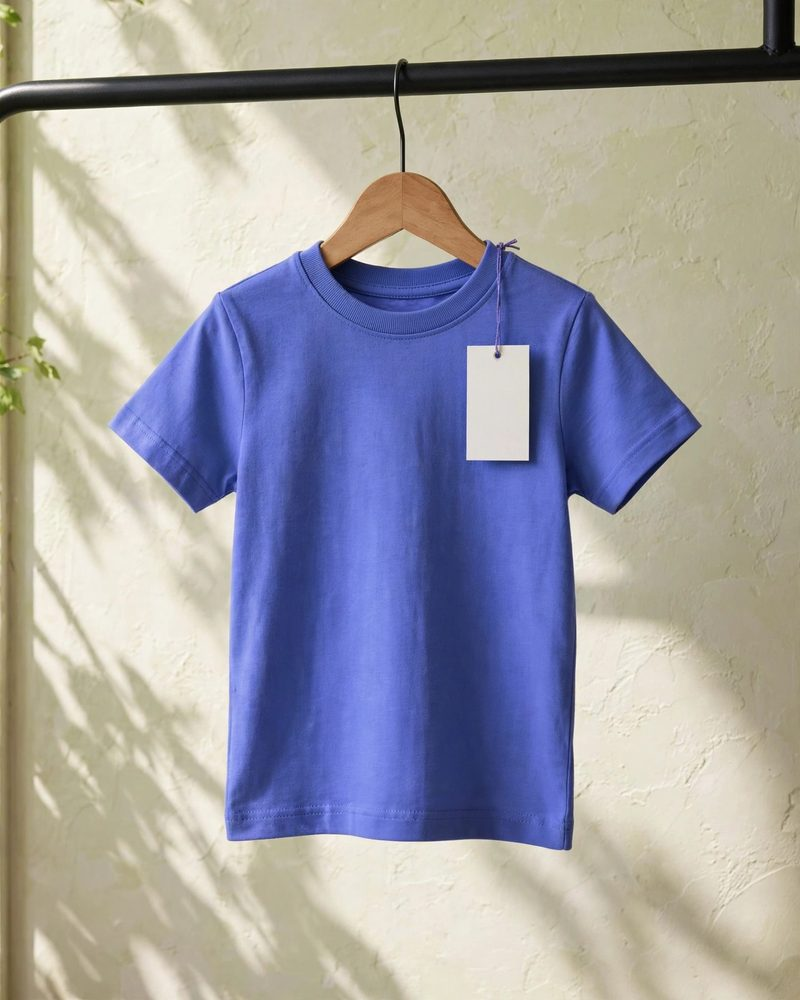
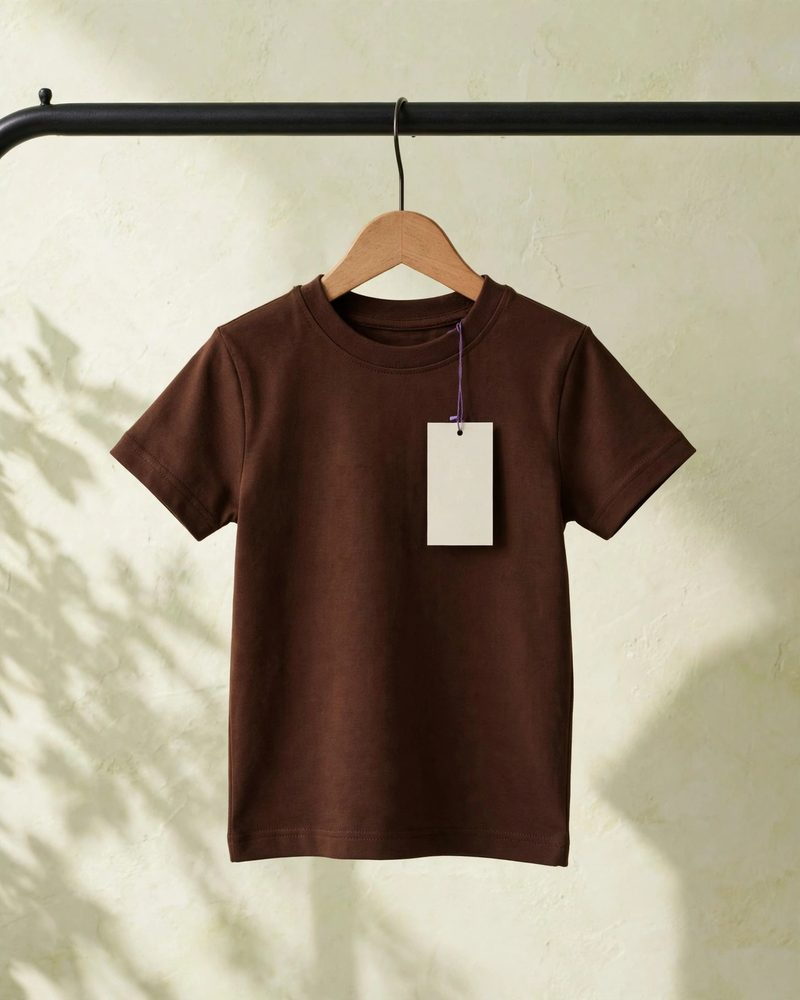
Each dye run's garments show its own colour: the medium-shade run (lot 460f93ca) is coffee brown and the light-shade run has its own pale blue photos, generated with Muse Image; the trace page, passports and tiles pick the photo and its tag position by the run's shade

diff --git a/web/src/Home.tsx b/web/src/Home.tsx
@@ -4,7 +4,7 @@ import { useEffect, useRef, useState } from 'react'
 import QRCode from 'qrcode'
 import { api, type CatalogBatch } from './api'
 import { dayHm, wall } from './evidence'
-import { Garment, SHADE, photo } from './Garments'
+import { Garment, SHADE, photo, photoKind } from './Garments'
 import TAGS from './tags.json'
 
 export function ScanLabel() {
@@ -14,7 +14,7 @@ export function ScanLabel() {
   const [qr, setQr] = useState('')
   useEffect(() => { api.catalog().then(setLog).catch(() => setLog([])) }, [])
   // fetch every tagged garment photo up front, so picking a garment shows it at once
-  useEffect(() => { new Set(log.flatMap((b) => b.products.map((p) => p.kind))).forEach((k) => { new Image().src = photo(k, true) }) }, [log])
+  useEffect(() => { new Set(log.flatMap((b) => b.products.map((p) => photo(p.kind, true, b.batch.shade)))).forEach((src) => { new Image().src = src }) }, [log])
   const batch = log.find((b) => b.key === key) ?? log[0]
   const product = batch?.products.find((p) => p.gtin === gtin) ?? batch?.products[0]
   const url = product ? `${location.origin}${product.link}` : ''
@@ -44,7 +44,7 @@ export function ScanLabel() {
           <div className="product-row">
             {batch.products.map((p) => (
               <button key={p.gtin} aria-pressed={p.gtin === product.gtin} onClick={() => setGtin(p.gtin)}>
-                <Garment kind={p.kind} /><span>{p.name}</span>
+                <Garment kind={p.kind} shade={batch.batch.shade} /><span>{p.name}</span>
               </button>
             ))}
           </div>
@@ -52,7 +52,7 @@ export function ScanLabel() {
         <div className="scan-tag">
           <span className="scan-step">3 · SCAN ITS TAG</span>
           <div className="tag-stage">
-            <Garment kind={product.kind} tag qr={qr} className="tag-garment" />
+            <Garment kind={product.kind} shade={batch.batch.shade} tag qr={qr} className="tag-garment" />
             <span className="tag-pointer">the QR lives here,<br />on the hang tag<svg viewBox="0 0 80 50" aria-hidden="true"><path d="M74 6Q24 2 10 44M10 44L22 37M10 44L5 30" /></svg></span>
           </div>
           <div className="tag-qr">
@@ -105,7 +105,7 @@ export function PhoneStory() {
   }, [auto, inView])
   useEffect(() => { if (step === 2) setSeen(true) }, [step])
   if (!batch || !product) return null
-  const box = (TAGS as Record<string, { x: number; y: number; w: number; h: number }>)[product.kind]
+  const box = (TAGS as Record<string, { x: number; y: number; w: number; h: number }>)[photoKind(product.kind, batch.batch.shade)]
   const go = (i: number) => { setAuto(false); setStep(i) }
   // where the QR printed on the tag sits on the phone's screen, in % of it: the camera zooms in around it and centres it
   // (the print starts 24% down the card and is as tall as it is wide: 72% of the card's width, the photo being 4:5)
@@ -127,10 +127,10 @@ export function PhoneStory() {
       <div className="ps-phone" aria-hidden={step !== 2}>
         <div className="phone">
           <div className="phone-screen" data-step={step}>
-            <div className="ps-screen ps-tag"><Garment kind={product.kind} tag qr={qr} /></div>
+            <div className="ps-screen ps-tag"><Garment kind={product.kind} shade={batch.batch.shade} tag qr={qr} /></div>
             <div className="ps-screen ps-camera">
               {/* the camera framed on the tag: the same photo, close in on it */}
-              <div className="ps-zoom" style={{ transformOrigin: `${ox}% ${oy}%`, transform: step === 1 ? `translate(${50 - ox}%, ${50 - oy}%) scale(3.2)` : 'scale(1.4)' }}><Garment kind={product.kind} tag qr={qr} /></div>
+              <div className="ps-zoom" style={{ transformOrigin: `${ox}% ${oy}%`, transform: step === 1 ? `translate(${50 - ox}%, ${50 - oy}%) scale(3.2)` : 'scale(1.4)' }}><Garment kind={product.kind} shade={batch.batch.shade} tag qr={qr} /></div>
               <svg className="ps-finder" viewBox="0 0 100 100"><path d="M4 26V8Q4 4 8 4H26M74 4H92Q96 4 96 8V26M96 74V92Q96 96 92 96H74M26 96H8Q4 96 4 92V74" /></svg><span className="ps-pill">Tellwater batch passport ↗</span>
             </div>
             <div className="ps-screen ps-passport">

diff --git a/web/src/Garments.tsx b/web/src/Garments.tsx
@@ -4,8 +4,8 @@ import { useState } from 'react'
 import TAGS from './tags.json'
 
 export const SHADE: Record<string, { fill: string; detail: string; name: string }> = {
-  light: { fill: '#dfe3fb', detail: '#9aa2d8', name: 'Light' },
-  medium: { fill: '#6c79dc', detail: '#c9cefa', name: 'Medium' },
+  light: { fill: '#c9d3ef', detail: '#9aaacf', name: 'Light' },
+  medium: { fill: '#57372b', detail: '#af8971', name: 'Medium' },
   dark: { fill: '#2b2f66', detail: '#7d84c8', name: 'Dark' },
 }
 
@@ -13,12 +13,13 @@ const NAME: Record<string, string> = {
   tee: 'crew-neck T-shirt', longsleeve: 'long-sleeve T-shirt', 'kids-tee': "kids' T-shirt", polo: "men's polo shirt",
   'polo-w': "women's polo shirt", hoodie: 'hoodie', sweatshirt: 'sweatshirt', joggers: 'joggers',
 }
-export const photo = (kind: string, tag = false) => `${import.meta.env.BASE_URL}garments/${kind}${tag ? '-tag' : ''}.jpg`
+export const photoKind = (kind: string, shade?: string) => shade === 'light' && ['tee', 'longsleeve'].includes(kind) ? `${kind}-light` : kind
+export const photo = (kind: string, tag = false, shade?: string) => `${import.meta.env.BASE_URL}garments/${photoKind(kind, shade)}${tag ? '-tag' : ''}.jpg`
 
 /** The garment's photo; with `tag`, the one with its hang tag, and `qr` (a data URL) printed on the tag. */
-export function Garment({ kind, tag = false, qr, className }: { kind: string; shade?: string; tag?: boolean; qr?: string; className?: string }) {
-  const box = (TAGS as Record<string, { x: number; y: number; w: number; h: number }>)[kind]
-  const src = photo(kind, tag)
+export function Garment({ kind, shade, tag = false, qr, className }: { kind: string; shade?: string; tag?: boolean; qr?: string; className?: string }) {
+  const box = (TAGS as Record<string, { x: number; y: number; w: number; h: number }>)[photoKind(kind, shade)]
+  const src = photo(kind, tag, shade)
   // the QR is placed on this photo's tag, so it waits until this photo (not the previous garment's) has loaded
   const [loaded, setLoaded] = useState('')
   return (
